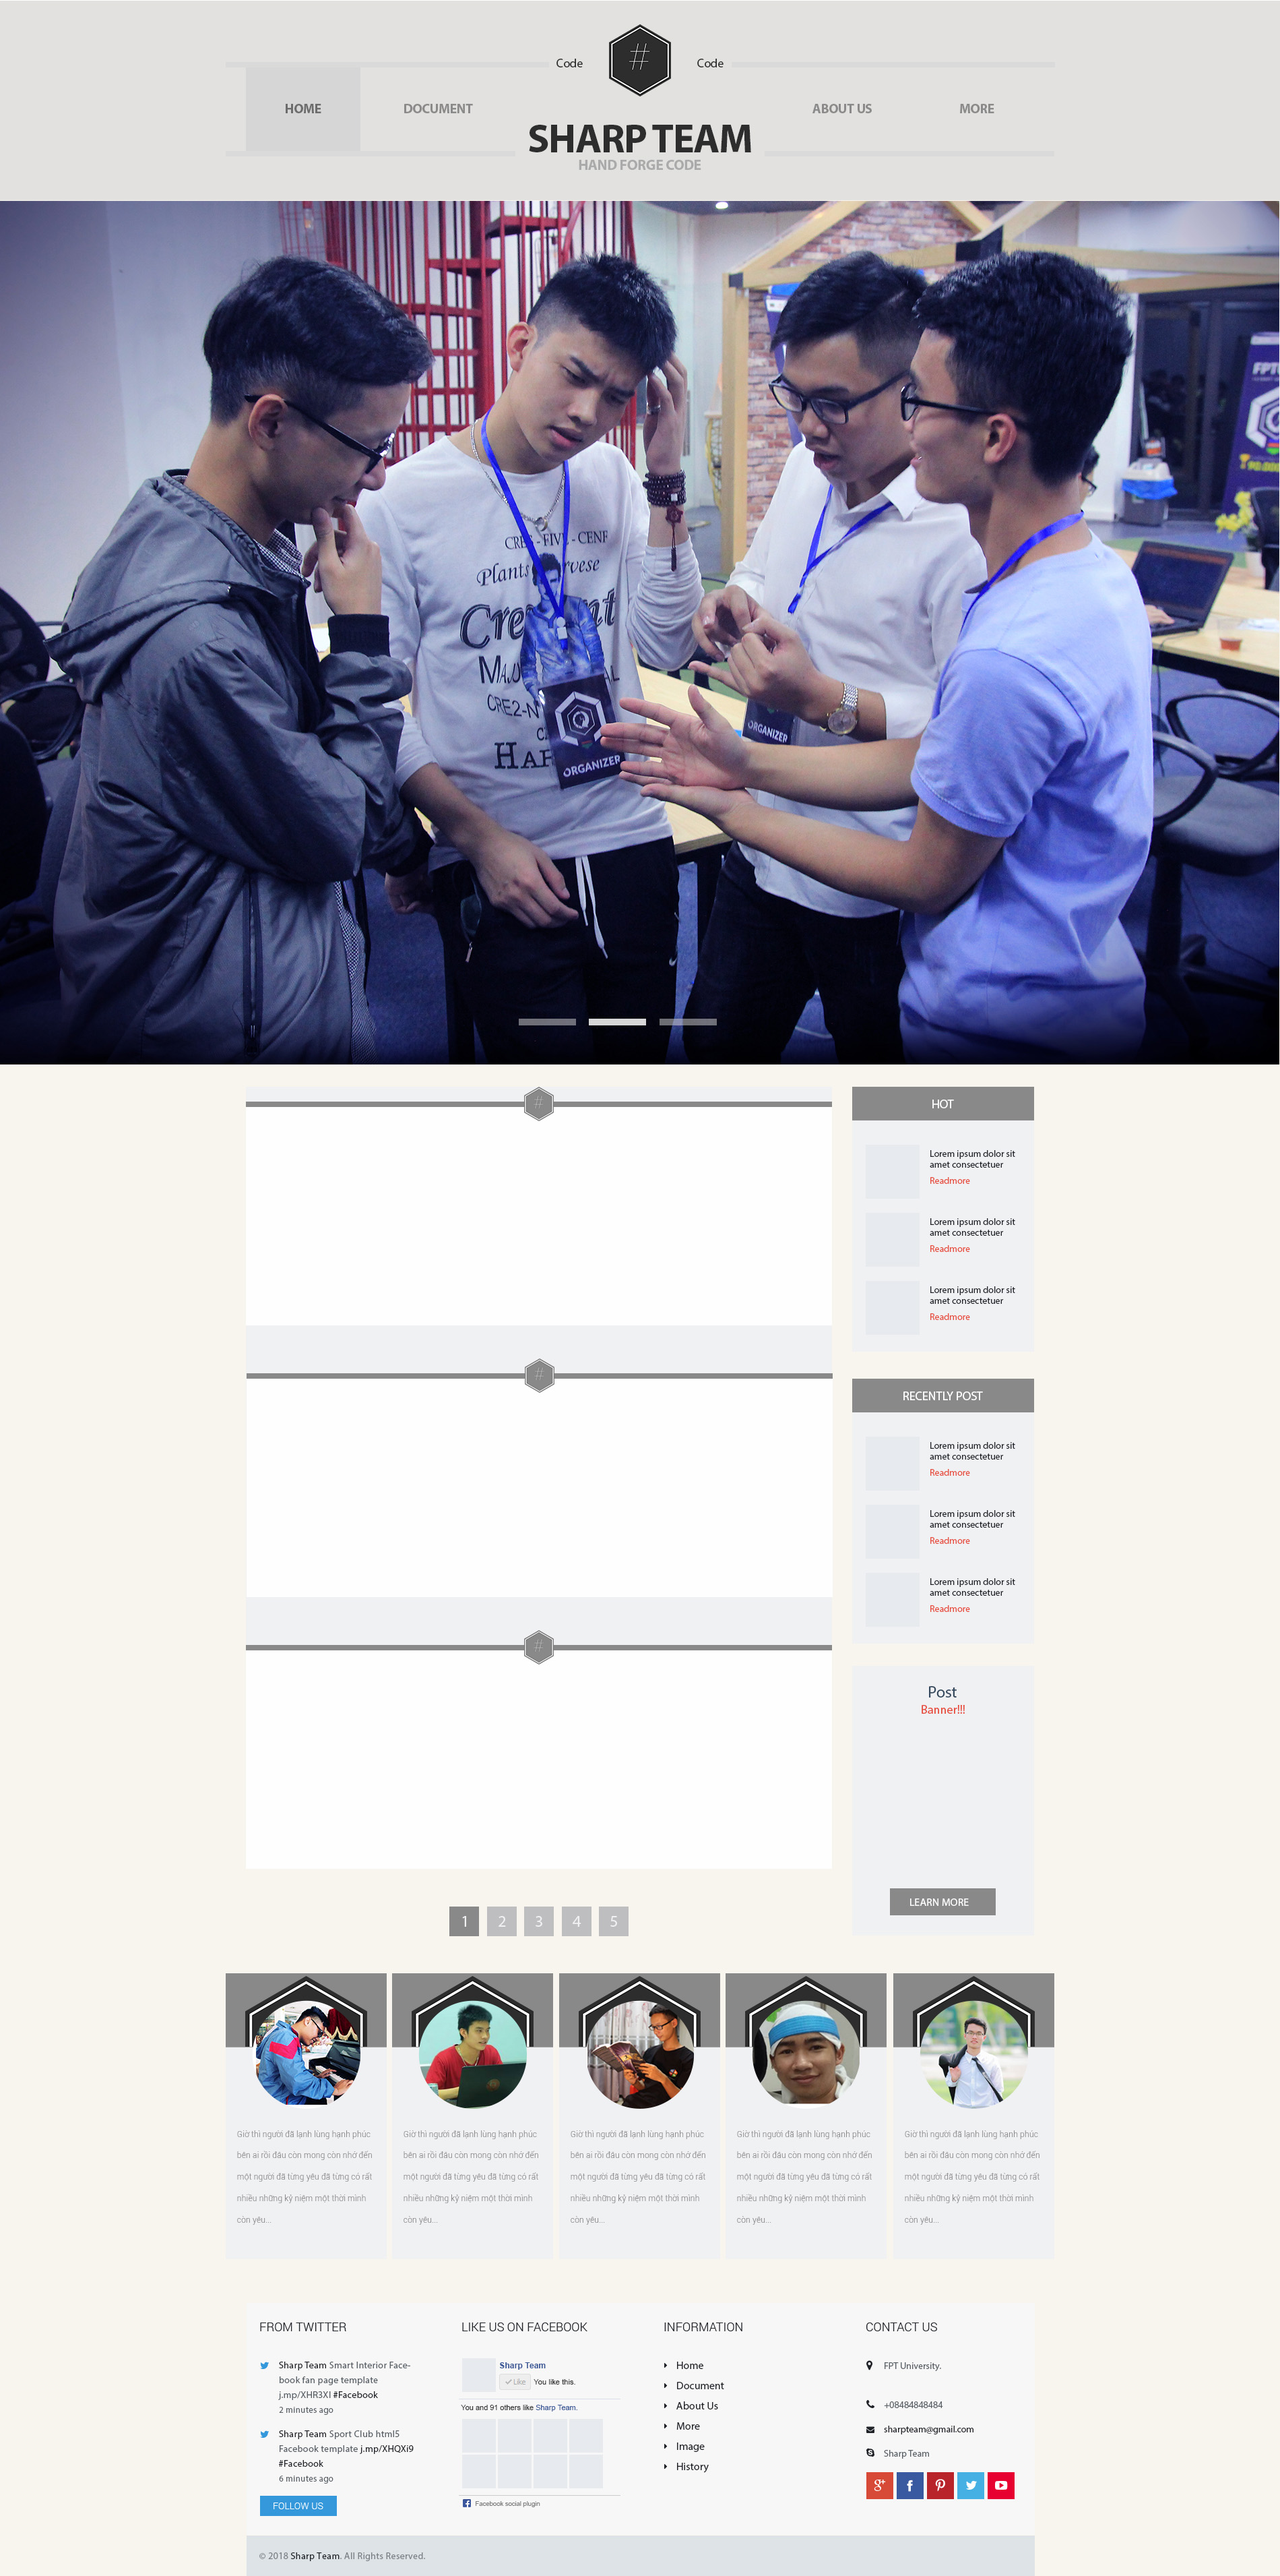
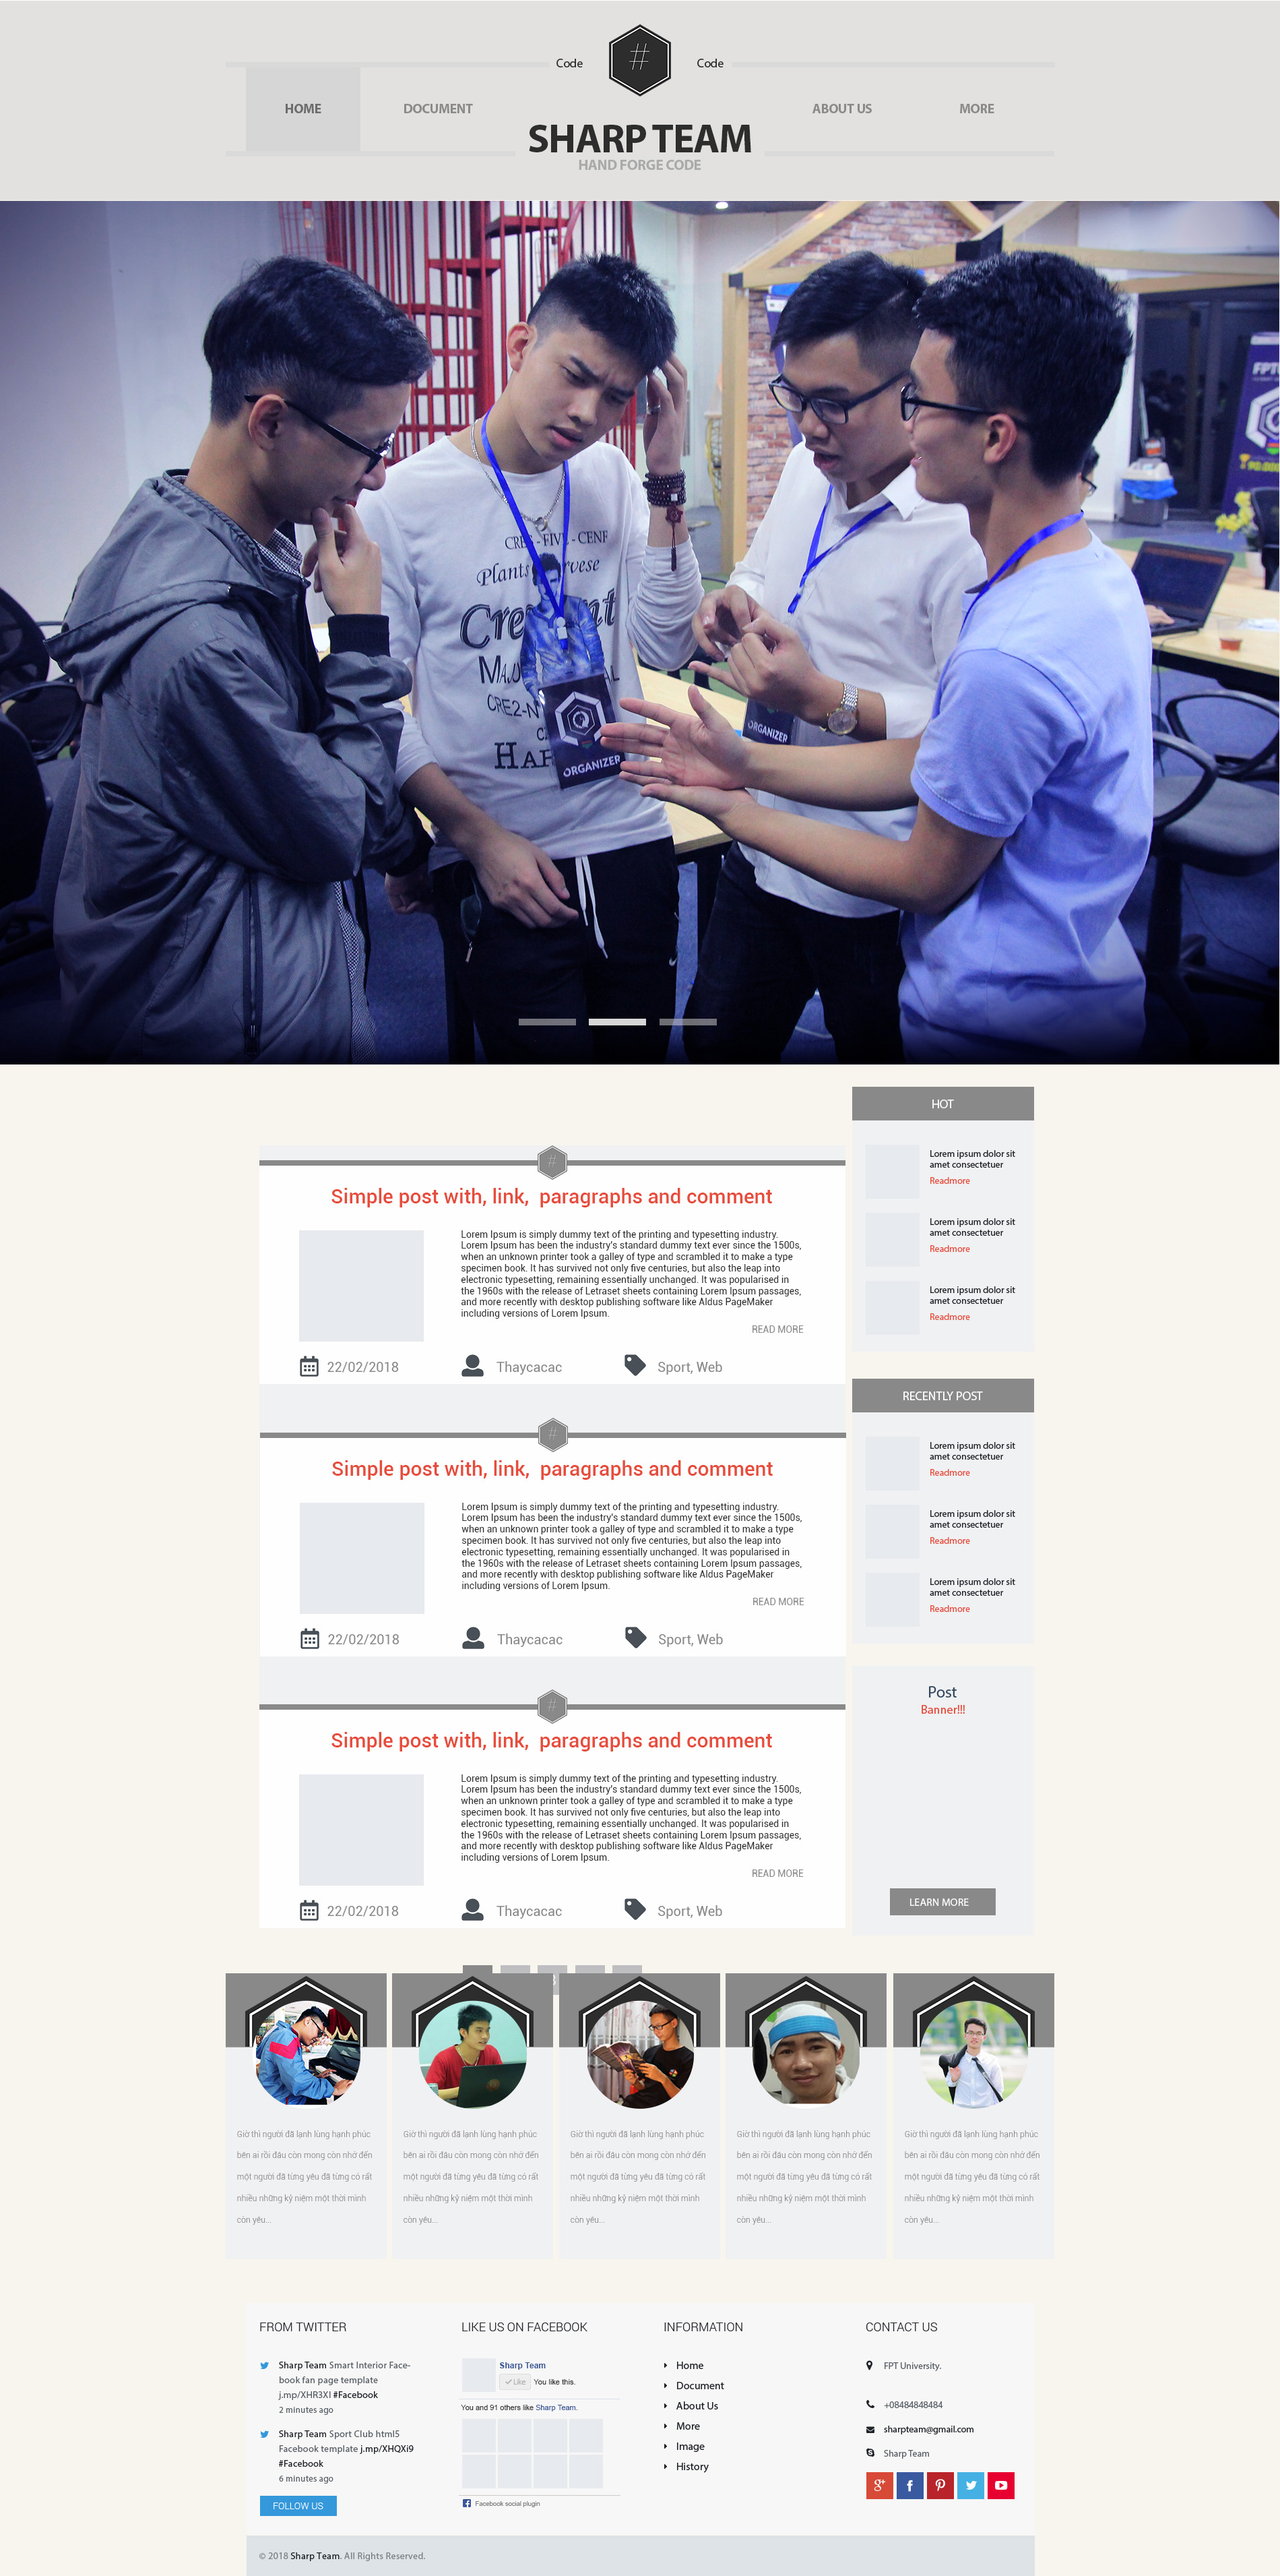
Begin year dog

Changed region(s): [[0.2174, 0.4049, 0.6521, 0.7786]]

diff --git a/HTML/Home.html b/HTML/Home.html
@@ -64,7 +64,7 @@
                         <div class="boder-team"></div>
                     </div>
                 </div>
-                <div class="col-sm-2 nav-team no-padding no-margin">
+<div class="col-sm-2 nav-team no-padding no-margin">
                     <div>
                         <div class="boder-team"></div>
                         <a href="#">DOCUMENT</a>
@@ -162,9 +162,38 @@
                 </div>
                 <div class="contentSize-team">
                     <div class="contentText-team">
-                        Text
-                        <br/>
-                        <a href="#">Link</a>
+                        <h1 class="title-team">Simple post with, link, paragraphs and comment</h1>
+                        <div class="row">
+                            <div class="col-md-3 text-center">
+                                <img class="img-artical-team" src="images\artical-example.jpg" alt="artical example">
+
+                            </div>
+                            <div class="col-md-9 interview-team">
+                                <p class="text-interview-team">Lorem Ipsum is simply dummy text of the printing and typesetting industry. Lorem Ipsum has
+                                    been the industry's standard dummy text ever since the 1500s, when an unknown printer
+                                    took a galley of type and scrambled it to make a type specimen book. It has survived
+                                    not only five centuries, but also the leap into electronic typesetting, remaining essentially
+                                    unchanged. It was popularised in the 1960s with the release of Letraset sheets containing
+                                    Lorem Ipsum passages, and more recently with desktop publishing software like Aldus PageMaker
+                                    including versions of Lorem Ipsum.
+                                </p>
+                                <a class="readmore-team" href="#">Read More</a>
+                            </div>
+                        </div>
+                        <div class="row">
+                            <div class="col-md-4">
+                                <i class="fa fa-calendar fa-artical-team"> </i>
+                                <p>22/02/2018</p>
+                            </div>
+                            <div class="col-md-4">
+                                <i class="fa fa-user fa-artical-team"> </i>
+                                <p>Thaycacac</p>
+                            </div>
+                            <div class="col-md-4">
+                                <i class="fa fa-tag fa-artical-team"> </i>
+                                <p>Sport, Web,...</p>
+                            </div>
+                        </div>
                     </div>
                 </div>
 
@@ -174,9 +203,38 @@
                 </div>
                 <div class="contentSize-team">
                     <div class="contentText-team">
-                        Text
-                        <br/>
-                        <a href="#">Link</a>
+                        <h1 class="title-team">Simple post with, link, paragraphs and comment</h1>
+                        <div class="row">
+                            <div class="col-md-3 text-center">
+                                <img class="img-artical-team" src="images\artical-example.jpg" alt="artical example">
+
+                            </div>
+                            <div class="col-md-9 interview-team">
+                                <p class="text-interview-team">Lorem Ipsum is simply dummy text of the printing and typesetting industry. Lorem Ipsum has
+                                    been the industry's standard dummy text ever since the 1500s, when an unknown printer
+                                    took a galley of type and scrambled it to make a type specimen book. It has survived
+                                    not only five centuries, but also the leap into electronic typesetting, remaining essentially
+                                    unchanged. It was popularised in the 1960s with the release of Letraset sheets containing
+                                    Lorem Ipsum passages, and more recently with desktop publishing software like Aldus PageMaker
+                                    including versions of Lorem Ipsum.
+                                </p>
+                                <a class="readmore-team" href="#">Read More</a>
+                            </div>
+                        </div>
+                        <div class="row">
+                            <div class="col-md-4">
+                                <i class="fa fa-calendar fa-artical-team"> </i>
+                                <p>22/02/2018</p>
+                            </div>
+                            <div class="col-md-4">
+                                <i class="fa fa-user fa-artical-team"> </i>
+                                <p>Thaycacac</p>
+                            </div>
+                            <div class="col-md-4">
+                                <i class="fa fa-tag fa-artical-team"> </i>
+                                <p>Sport, Web,...</p>
+                            </div>
+                        </div>
                     </div>
                 </div>
 
@@ -186,9 +244,38 @@
                 </div>
                 <div class="contentSize-team">
                     <div class="contentText-team">
-                        Text
-                        <br/>
-                        <a href="#">Link</a>
+                        <h1 class="title-team">Simple post with, link, paragraphs and comment</h1>
+                        <div class="row">
+                            <div class="col-md-3 text-center">
+                                <img class="img-artical-team" src="images\artical-example.jpg" alt="artical example">
+
+                            </div>
+                            <div class="col-md-9 interview-team">
+                                <p class="text-interview-team">Lorem Ipsum is simply dummy text of the printing and typesetting industry. Lorem Ipsum has
+                                    been the industry's standard dummy text ever since the 1500s, when an unknown printer
+                                    took a galley of type and scrambled it to make a type specimen book. It has survived
+                                    not only five centuries, but also the leap into electronic typesetting, remaining essentially
+                                    unchanged. It was popularised in the 1960s with the release of Letraset sheets containing
+                                    Lorem Ipsum passages, and more recently with desktop publishing software like Aldus PageMaker
+                                    including versions of Lorem Ipsum.
+                                </p>
+                                <a class="readmore-team" href="#">Read More</a>
+                            </div>
+                        </div>
+                        <div class="row">
+                            <div class="col-md-4">
+                                <i class="fa fa-calendar fa-artical-team"> </i>
+                                <p>22/02/2018</p>
+                            </div>
+                            <div class="col-md-4">
+                                <i class="fa fa-user fa-artical-team"> </i>
+                                <p>Thaycacac</p>
+                            </div>
+                            <div class="col-md-4">
+                                <i class="fa fa-tag fa-artical-team"> </i>
+                                <p>Sport, Web,...</p>
+                            </div>
+                        </div>
                     </div>
                 </div>
                 <div>

diff --git a/HTML/css/sharpteam.css b/HTML/css/sharpteam.css
@@ -159,6 +159,40 @@ span.views-team {
     background-color: #e2e1df;
 }
 
+/* HOME */
+
+.title-team {
+    color: red;
+    font-weight: bold;
+    text-align: center;
+}
+
+.contentText-team {
+    align-content: center;
+}
+
+img.img-artical-team {
+    width: 185px !important;
+    height: 185px !important;
+}
+
+.interview-team {
+    padding: 5px 15px 15px 15px;
+}
+
+.text-interview-team {
+    font-size: 14px;
+}
+
+.readmore-team {
+    text-align: right;
+}
+
+.fa-artical-team {
+    padding: 0px 15px 0px 15px;
+    float: left;
+}
+
 /* Hoa */
 
 /* Begin css of Nhat */
@@ -373,30 +407,33 @@ span.views-team {
 /* end css Nhat */
 
 /*Cường*/
+
 div.contentSize-team {
-    background-color:white;
-    height: 254px;
+    background-color: white;
     border-radius: 0px 0px 5px 5px;
-    border-top: 5px solid rgb(134,134,134);
+    border-top: 5px solid rgb(134, 134, 134);
     margin-bottom: 60px;
 }
+
 div.contentText-team {
     padding-top: 30px;
     padding-left: 15px;
     padding-right: 15px;
     padding-bottom: 15px;
 }
+
 div.contentImage-team {
     width: 6%;
     margin-left: 45%;
-    margin-top:-2.5%;  
+    margin-top: -2.5%;
     height: auto;
     float: left;
-    position: absolute;  
- 
+    position: absolute;
 }
+
 .pagination {
     color: #ffffff;
     background-color: #7a8188;
 }
+
 /* end css Cường */
